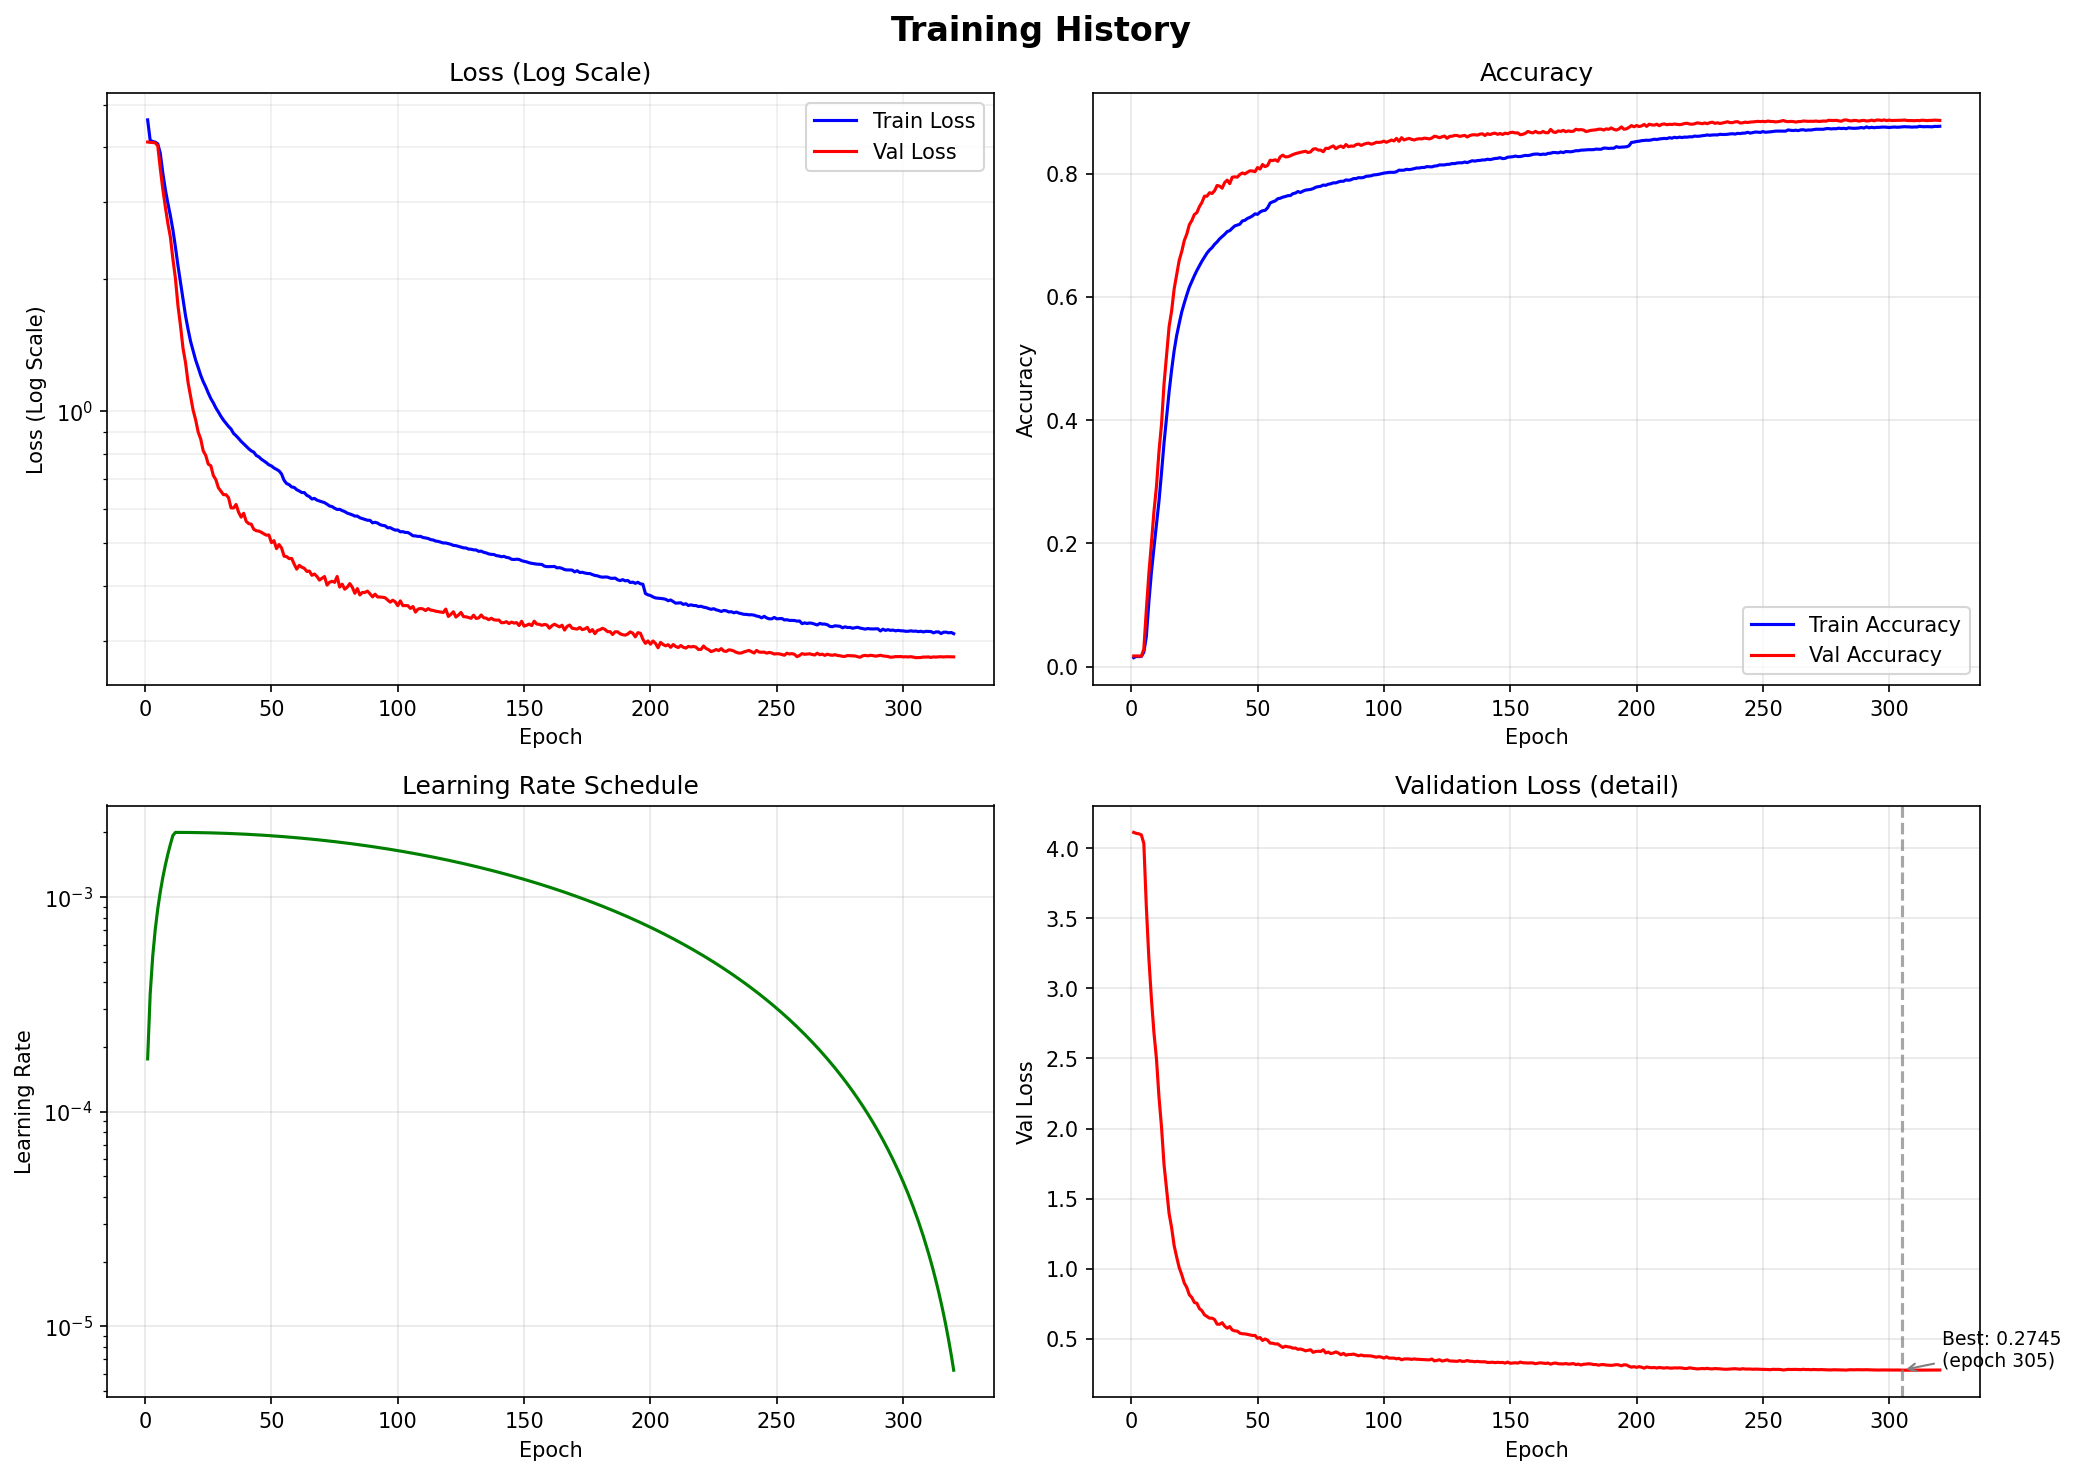
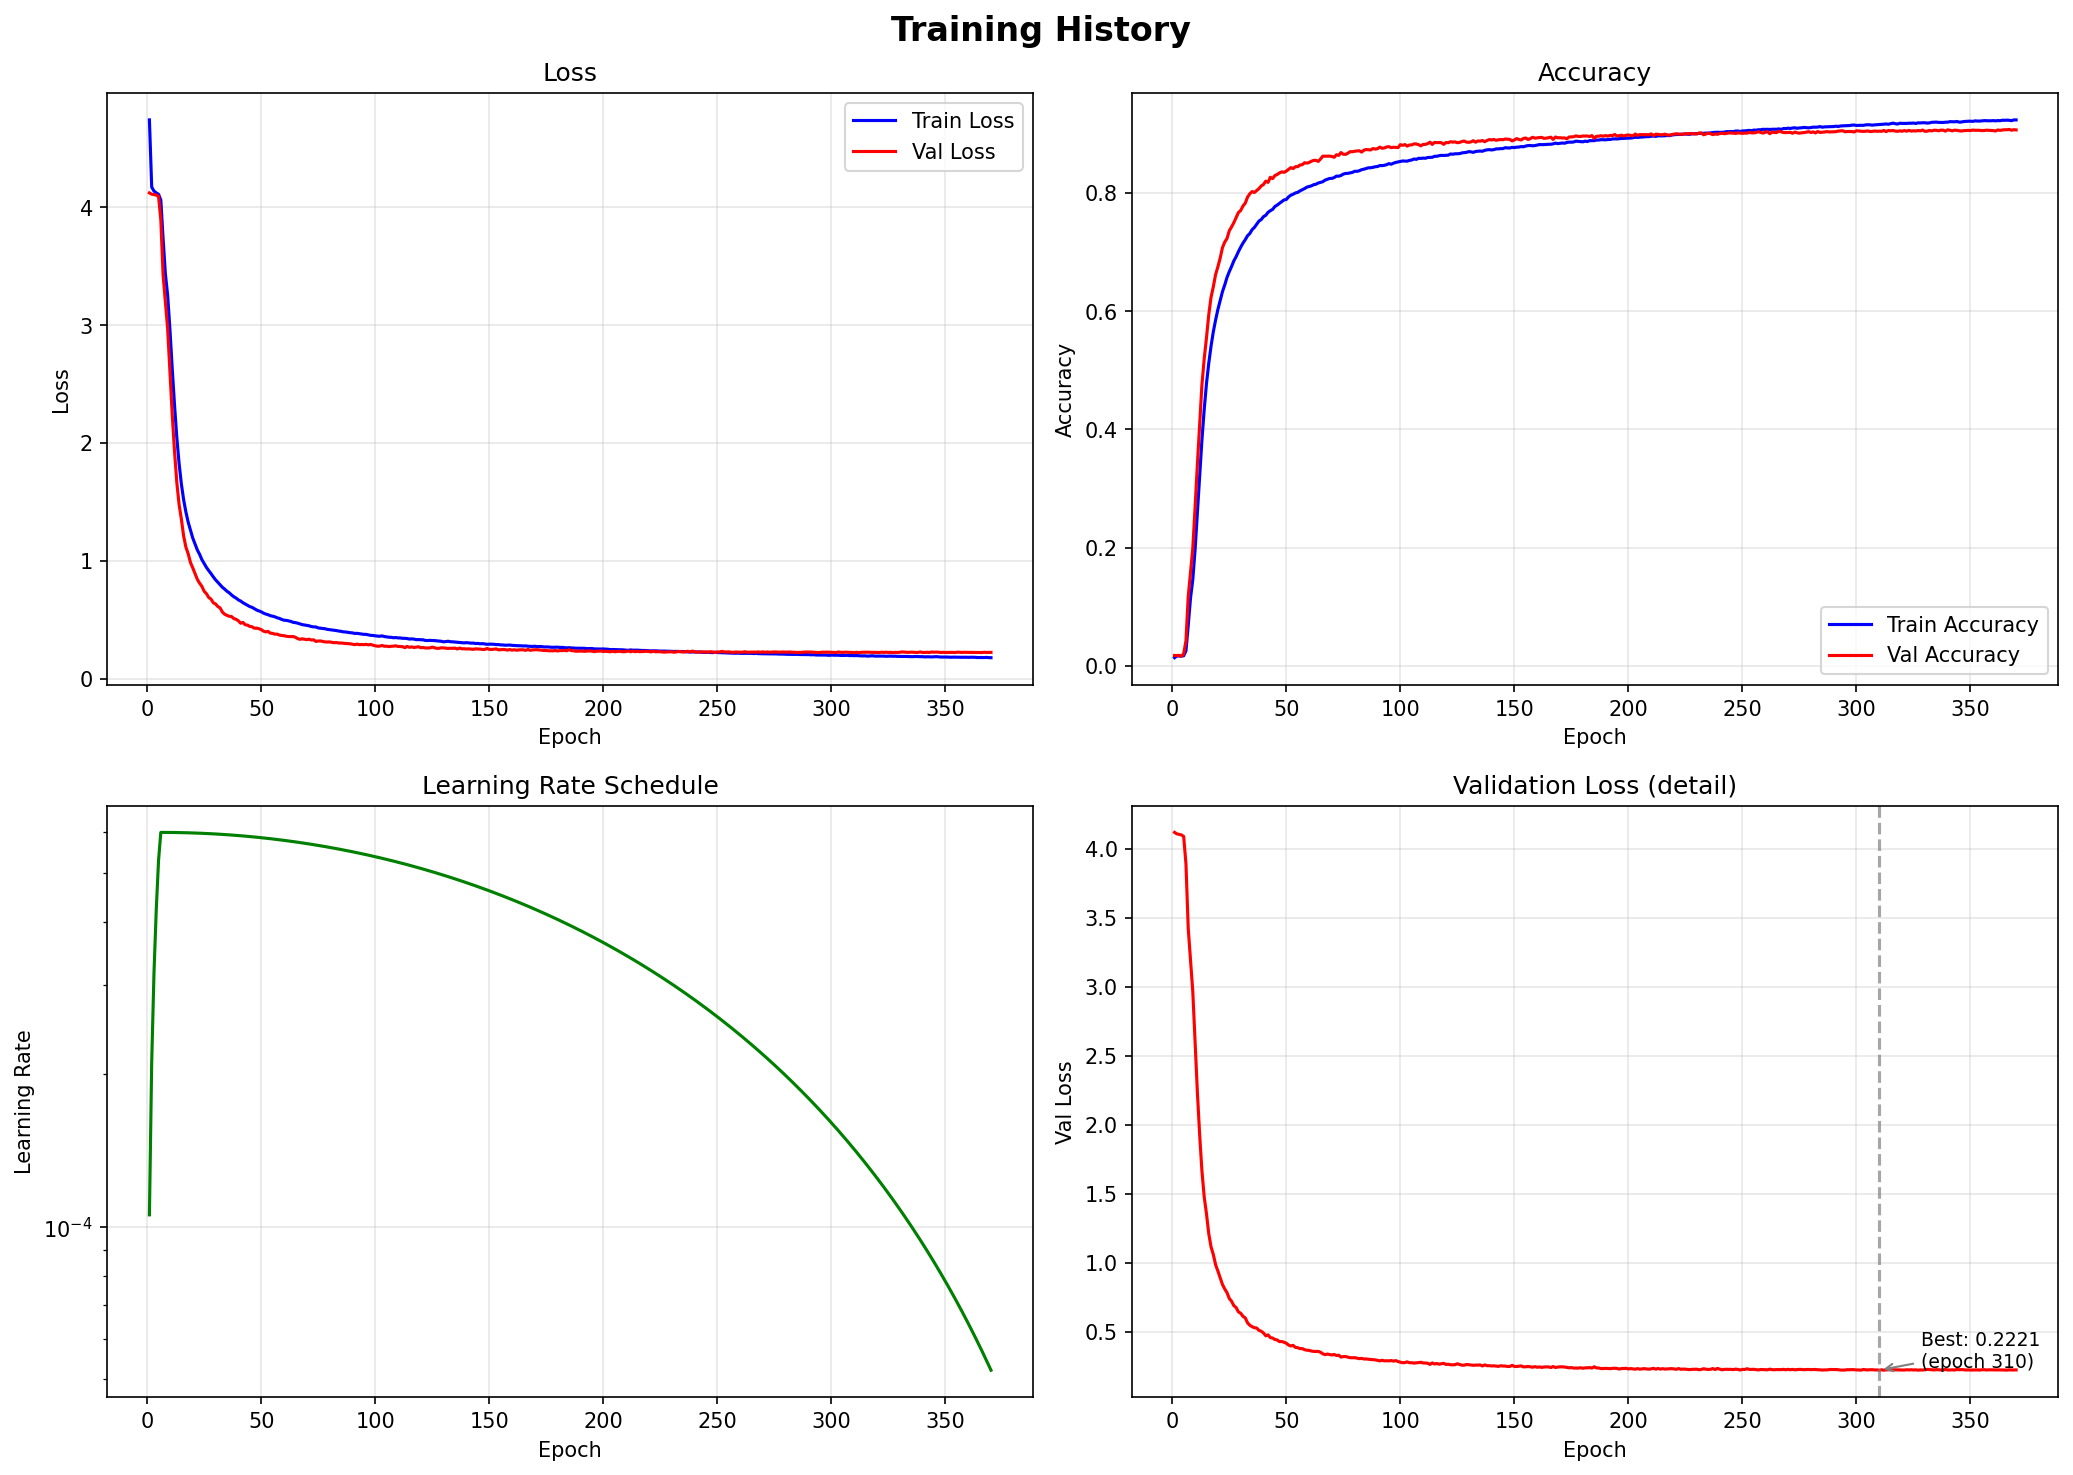
restore to the most effective ver

diff --git a/src/train.py b/src/train.py
@@ -59,7 +59,7 @@ NUM_HEADS = 4
 NUM_LAYERS = 4
 DFF = 256
 DROPOUT_RATE = 0.1
-EPOCHS = 320
+EPOCHS = 450
 BATCH_SIZE = 256
 
 # 计算 patch 数量
@@ -268,9 +268,9 @@ def main():
     lr_schedule = keras.optimizers.schedules.CosineDecay(
         initial_learning_rate=0.0,       # warmup 起始
         decay_steps=total_steps,
-        alpha=1e-5,                      # 最终学习率（不会降到0）
-        warmup_target=2e-3,              # warmup 目标峰值
-        warmup_steps=4000,               # warmup 步数
+        alpha=1e-4,                      # 最终学习率（不会降到0）
+        warmup_target=6e-4,              # warmup 目标峰值
+        warmup_steps=2000,               # warmup 步数
     )
 
     model.compile(
@@ -294,7 +294,7 @@ def main():
     callbacks = [
         keras.callbacks.EarlyStopping(
             monitor="val_loss",
-            patience=120,
+            patience=60,
             restore_best_weights=True,
         ),
         keras.callbacks.ModelCheckpoint(

diff --git a/train-log.md b/train-log.md
@@ -315,9 +315,13 @@ Epoch 20/150
 
 lr increase to 2e3, (failed but hopeful, val loss 0.2745)
 
-。但是根据lossplot，判断一下，如果不出意外，或许该加正则化了
+~~。但是根据lossplot，判断一下，如果不出意外，或许该加正则化了 ~~
 
-上面所有提高lr下限以后的实验都作废（其实只有裸的增加patience作废
+ - [x] 好像加过正则化了
+
+ - [x] 上面所有提高lr下限以后的实验都作废（其实只有裸的增加patience作废
+
+目前发现似乎 val loss=0.2221的那次效果最好。先restore到那一次，重新复现一遍。
 
 再不行试试val loss不降再减小lr的策略。
 
@@ -325,4 +329,4 @@ lr increase to 2e3, (failed but hopeful, val loss 0.2745)
 
 另外还需要判断目前的神经网络会不会太小，也可以试验一下
 
-还需要研究一下需不需要在潜空间使用transformer
+~~还需要研究一下需不需要在潜空间使用transformer（已经是了）~~
